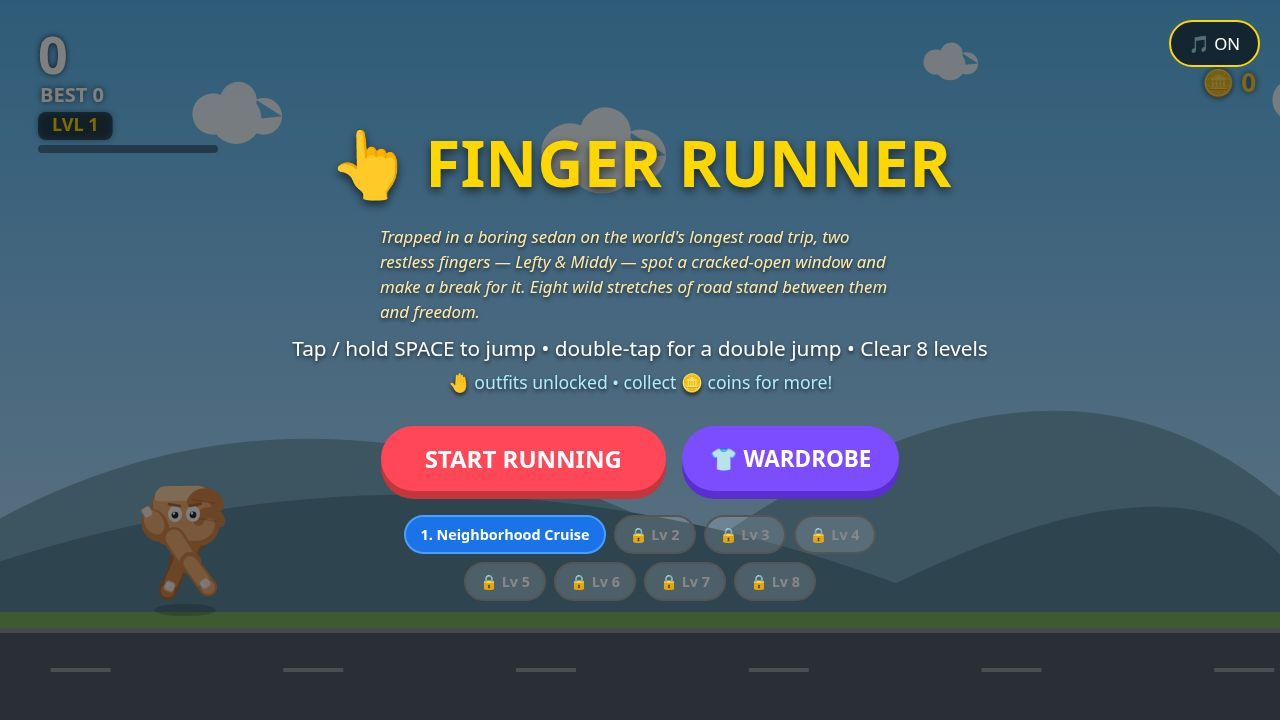
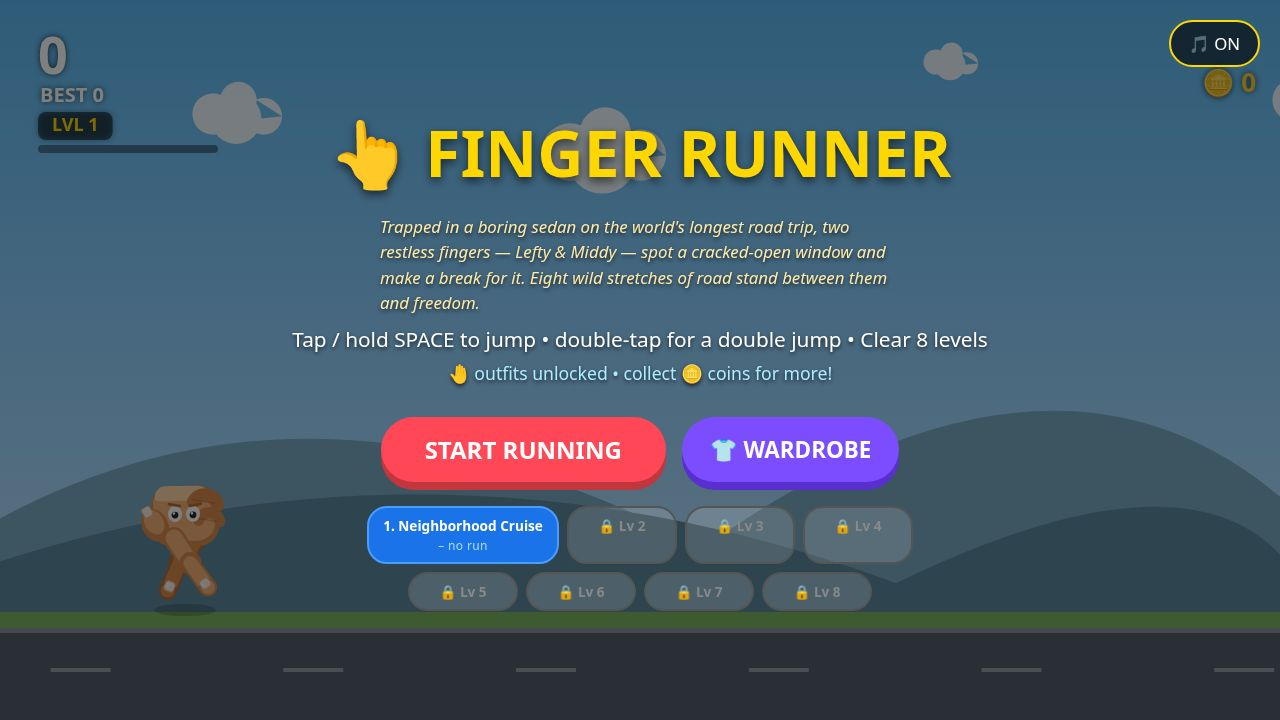
Add per-level best scores and medal ratings to Finger Runner
## Original task
Track a per-level best score in localStorage and award bronze/silver/gold
medals based on score thresholds. Show medal + best on level-select chips
on the start screen and on the level-complete screen.
All changes are in artifacts/finger-runner/src/Game.tsx.

## Implementation

### localStorage helpers
- `getLevelBest(levelNum)` / `saveLevelBest(levelNum, score)` read/write
  keys `fingerRunnerBest_1` … `fingerRunnerBest_8`
- `getMedal(levelNum)` returns null | "bronze" | "silver" | "gold"
- Medal thresholds (relative to each level's target):
    Bronze  ≥ 33 % of target
    Silver  ≥ 67 % of target
    Gold    ≥ 100 % (completed the level)

### Score persistence
- `crash()` calls `saveLevelBest` so even failed runs are tracked
- `levelComplete()` calls `saveLevelBest` and also captures `prevBest`
  before saving, so the complete screen can show "first clear!" vs upgrade

### New React state
- `levelBests` (array) — drives live chip updates after each run
- `completedLevelPrevBest` — previous best, captured before save
- `completedLevelMedal` — medal at completion time (always gold)

### Start screen level chips
- Two-line chip: name on top, medal emoji + "X / target" below
- Border color matches medal (gold/silver/bronze/blue/grey)
- "no run" text shown for unlocked levels with no attempt yet

### Level-complete screen
- Medal badge card with emoji, colour-coded border, medal name
- Sub-line varies: "First clear!", upgrade message, or current best
[…]

Changed region(s): [[0.2188, 0.1528, 0.7812, 0.55], [0.2812, 0.5806, 0.7188, 0.8556]]

diff --git a/artifacts/finger-runner/src/Game.tsx b/artifacts/finger-runner/src/Game.tsx
@@ -119,6 +119,29 @@ function getEquippedHat(): HatId { return (localStorage.getItem("fingerRunnerHat
 function setEquippedHat(id: HatId) { localStorage.setItem("fingerRunnerHat", id); }
 function getCoins(): number { return parseInt(localStorage.getItem("fingerRunnerCoins") || "0"); }
 function setCoinsLS(n: number) { localStorage.setItem("fingerRunnerCoins", String(Math.max(0, Math.floor(n)))); }
+
+// ── Per-level best scores ──────────────────────────────────────────────────────
+function getLevelBest(levelNum: number): number {
+  return parseInt(localStorage.getItem(`fingerRunnerBest_${levelNum}`) || "0");
+}
+function saveLevelBest(levelNum: number, score: number) {
+  const prev = getLevelBest(levelNum);
+  if (score > prev) localStorage.setItem(`fingerRunnerBest_${levelNum}`, String(Math.floor(score)));
+}
+// Returns null (no attempt), "bronze", "silver", or "gold"
+// Bronze: best >= 33% of target  Silver: best >= 67%  Gold: completed (best >= 100%)
+type Medal = "bronze" | "silver" | "gold";
+function getMedal(levelNum: number): Medal | null {
+  const best = getLevelBest(levelNum);
+  if (best === 0) return null;
+  const target = getLevelDef(levelNum).target;
+  if (best >= target) return "gold";
+  if (best >= target * 0.67) return "silver";
+  if (best >= target * 0.33) return "bronze";
+  return null;
+}
+const MEDAL_EMOJI: Record<Medal, string> = { bronze: "🥉", silver: "🥈", gold: "🥇" };
+const MEDAL_COLOR: Record<Medal, string> = { bronze: "#cd7f32", silver: "#c0c0c0", gold: "#ffd700" };
 function getOwnedOutfits(): HatId[] {
   try { const v = JSON.parse(localStorage.getItem("fingerRunnerOutfits") || "[]"); return Array.isArray(v) ? (v as HatId[]) : []; }
   catch { return []; }
@@ -179,6 +202,9 @@ export default function Game() {
   const [ownedOutfits, setOwnedState] = useState<HatId[]>(getOwnedOutfits());
   const [completedLevel, setCompletedLevel] = useState(0);
   const [unlockedHat, setUnlockedHat] = useState<typeof HATS[0] | null>(null);
+  const [levelBests, setLevelBests] = useState<number[]>(() => LEVELS.map(lv => getLevelBest(lv.num)));
+  const [completedLevelPrevBest, setCompletedLevelPrevBest] = useState(0);
+  const [completedLevelMedal, setCompletedLevelMedal] = useState<Medal | null>(null);
 
   // ── Audio ──────────────────────────────────────────────────────────────────
   const initAudio = () => {
@@ -372,6 +398,8 @@ export default function Game() {
       st.bestScore = Math.floor(st.totalScore);
       localStorage.setItem("fingerRunnerBest", String(st.bestScore));
     }
+    saveLevelBest(st.currentLevel, st.levelScore);
+    setLevelBests(LEVELS.map(lv => getLevelBest(lv.num)));
     stopMusic();
     setCoinBalanceState(st.coinBalance);
     setTimeout(() => { if (!stateRef.current.gameRunning && audioRef.current.enabled) startMusic(false); }, 600);
@@ -389,6 +417,12 @@ export default function Game() {
     const lvl = st.currentLevel;
     const newMax = Math.max(getMaxLevel(), lvl + 1);
     setMaxLevel(newMax); setMaxLevelState(newMax);
+    // Save per-level best before reading previous best for the complete screen
+    const prevBest = getLevelBest(lvl);
+    setCompletedLevelPrevBest(prevBest);
+    saveLevelBest(lvl, st.levelScore);
+    setLevelBests(LEVELS.map(lv => getLevelBest(lv.num)));
+    setCompletedLevelMedal(getMedal(lvl));
     // Check for hat unlock at next level
     const nextUnlock = HATS.find(h => h.unlockLevel === lvl + 1);
     setUnlockedHat(nextUnlock || null);
@@ -1549,19 +1583,28 @@ export default function Game() {
             </button>
           </div>
           {/* Level select */}
-          <div style={{ marginTop:24, display:"flex", gap:8, flexWrap:"wrap", justifyContent:"center", maxWidth:480 }}>
-            {LEVELS.map(lv => {
+          <div style={{ marginTop:24, display:"flex", gap:8, flexWrap:"wrap", justifyContent:"center", maxWidth:560 }}>
+            {LEVELS.map((lv, idx) => {
               const unlocked = lv.num <= getMaxLevel();
+              const best = levelBests[idx];
+              const medal = getMedal(lv.num);
+              const borderColor = medal === "gold" ? "#ffd700" : medal === "silver" ? "#c0c0c0" : medal === "bronze" ? "#cd7f32" : unlocked ? "#4a9eff" : "#555";
               return (
                 <button key={lv.num}
                   onClick={() => unlocked && startLevel(lv.num)}
-                  onMouseDown={btnPress} onMouseUp={btnRelease}
-                  style={{ padding:"8px 14px", fontSize:"0.9rem", fontWeight:"bold",
-                    background: unlocked ? "#1a73e8" : "rgba(255,255,255,0.15)",
+                  onMouseDown={unlocked ? btnPress : undefined} onMouseUp={unlocked ? btnRelease : undefined}
+                  style={{ padding:"8px 14px", fontSize:"0.85rem", fontWeight:"bold",
+                    background: unlocked ? (medal ? "rgba(26,115,232,0.85)" : "#1a73e8") : "rgba(255,255,255,0.15)",
                     color: unlocked ? "#fff" : "#888",
-                    border: "2px solid " + (unlocked ? "#4a9eff" : "#555"),
-                    borderRadius:20, cursor: unlocked ? "pointer" : "default", fontFamily:font }}>
-                  {unlocked ? `${lv.num}. ${lv.name}` : `🔒 Lv ${lv.num}`}
+                    border: `2px solid ${borderColor}`,
+                    borderRadius:20, cursor: unlocked ? "pointer" : "default", fontFamily:font,
+                    display:"flex", flexDirection:"column", alignItems:"center", gap:2, minWidth:110 }}>
+                  <span>{unlocked ? `${lv.num}. ${lv.name}` : `🔒 Lv ${lv.num}`}</span>
+                  {unlocked && (
+                    <span style={{ fontSize:"0.75rem", fontWeight:"normal", color: medal ? MEDAL_COLOR[medal] : "#adf", letterSpacing:"0.03em" }}>
+                      {medal ? MEDAL_EMOJI[medal] : "–"} {best > 0 ? `${best} / ${lv.target}` : "no run"}
+                    </span>
+                  )}
                 </button>
               );
             })}
@@ -1651,12 +1694,34 @@ export default function Game() {
                 ? (LEVEL_STORY[completedLevel + 1] || "The road rolls on…")
                 : "Lefty & Middy made it home — knuckles weary, nails chipped, hearts full."}
             </p>
-            <div style={{ background:"rgba(255,255,255,0.08)", borderRadius:12, padding:"12px 20px", marginBottom:20 }}>
+            <div style={{ background:"rgba(255,255,255,0.08)", borderRadius:12, padding:"12px 20px", marginBottom:16 }}>
               <div style={{ fontSize:"1rem", color:"#aaa", fontFamily:font }}>Distance covered</div>
               <div style={{ fontSize:"2rem", fontWeight:"bold", color:"#fff", fontFamily:font }}>
                 {Math.floor(stateRef.current.levelScore)} m
               </div>
             </div>
+            {/* Medal + best score */}
+            {completedLevelMedal && (
+              <div style={{ background:`rgba(${completedLevelMedal==="gold"?"255,215,0":completedLevelMedal==="silver"?"192,192,192":"205,127,50"},0.12)`,
+                border:`2px solid ${MEDAL_COLOR[completedLevelMedal]}`,
+                borderRadius:12, padding:"12px 20px", marginBottom:16 }}>
+                <div style={{ fontSize:"2.4rem", lineHeight:1 }}>{MEDAL_EMOJI[completedLevelMedal]}</div>
+                <div style={{ fontSize:"1.1rem", fontWeight:"bold", color: MEDAL_COLOR[completedLevelMedal], fontFamily:font, marginTop:4 }}>
+                  {completedLevelMedal.toUpperCase()} MEDAL
+                </div>
+                {completedLevelPrevBest === 0 ? (
+                  <div style={{ fontSize:"0.85rem", color:"#aaa", fontFamily:font }}>First clear!</div>
+                ) : completedLevelPrevBest < getLevelDef(completedLevel).target ? (
+                  <div style={{ fontSize:"0.85rem", color:"#adf", fontFamily:font }}>
+                    Previous best: {completedLevelPrevBest} → 🥇 now!
+                  </div>
+                ) : (
+                  <div style={{ fontSize:"0.85rem", color:"#aaa", fontFamily:font }}>
+                    Best: {getLevelBest(completedLevel)} m
+                  </div>
+                )}
+              </div>
+            )}
             {unlockedHat && (
               <div style={{ background:"rgba(124,77,255,0.25)", border:"2px solid #7c4dff",
                 borderRadius:12, padding:"12px 20px", marginBottom:20 }}>
